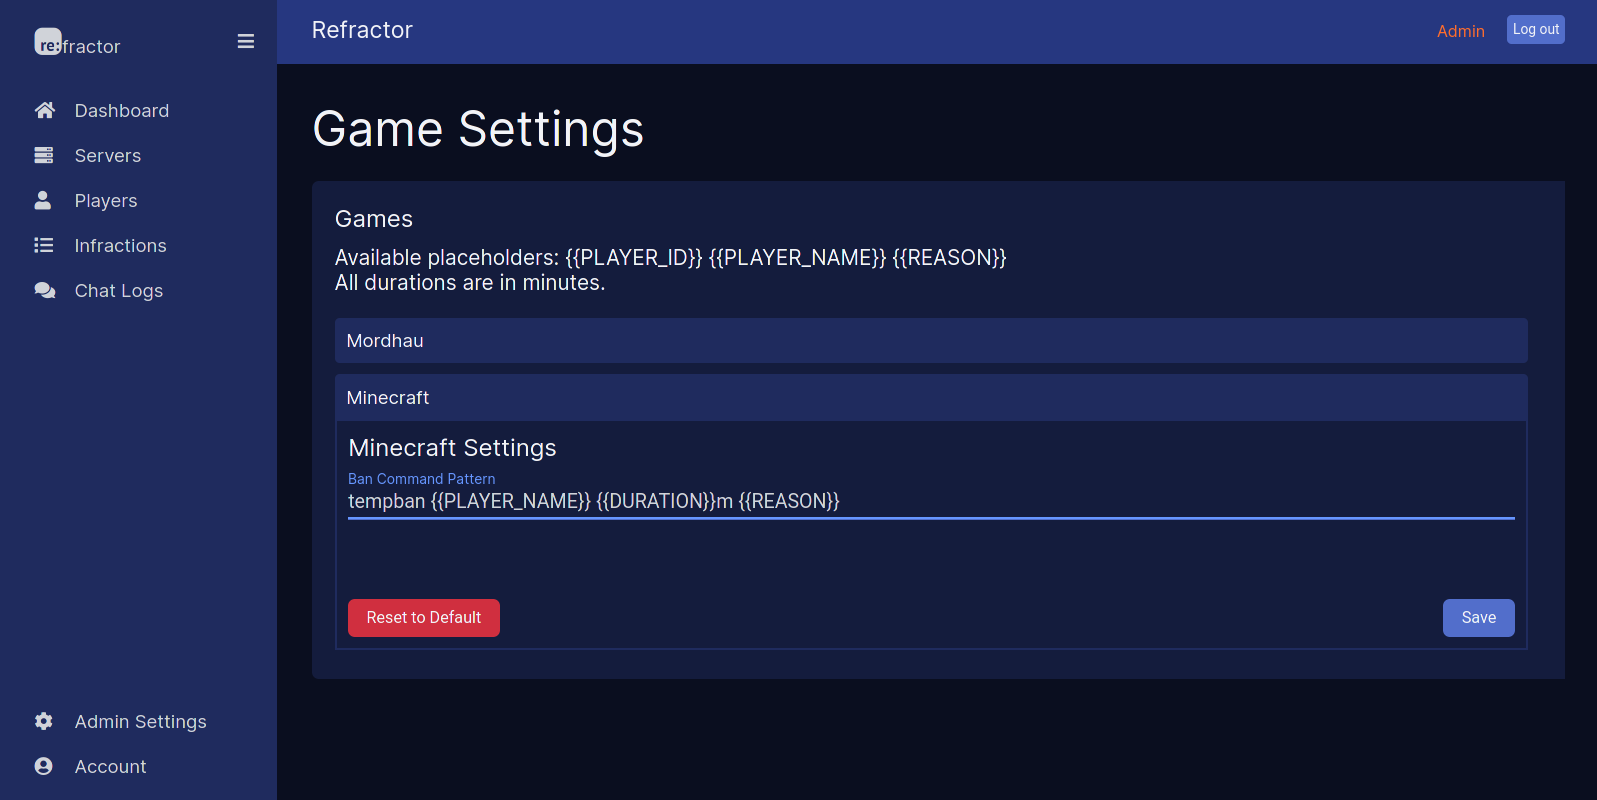
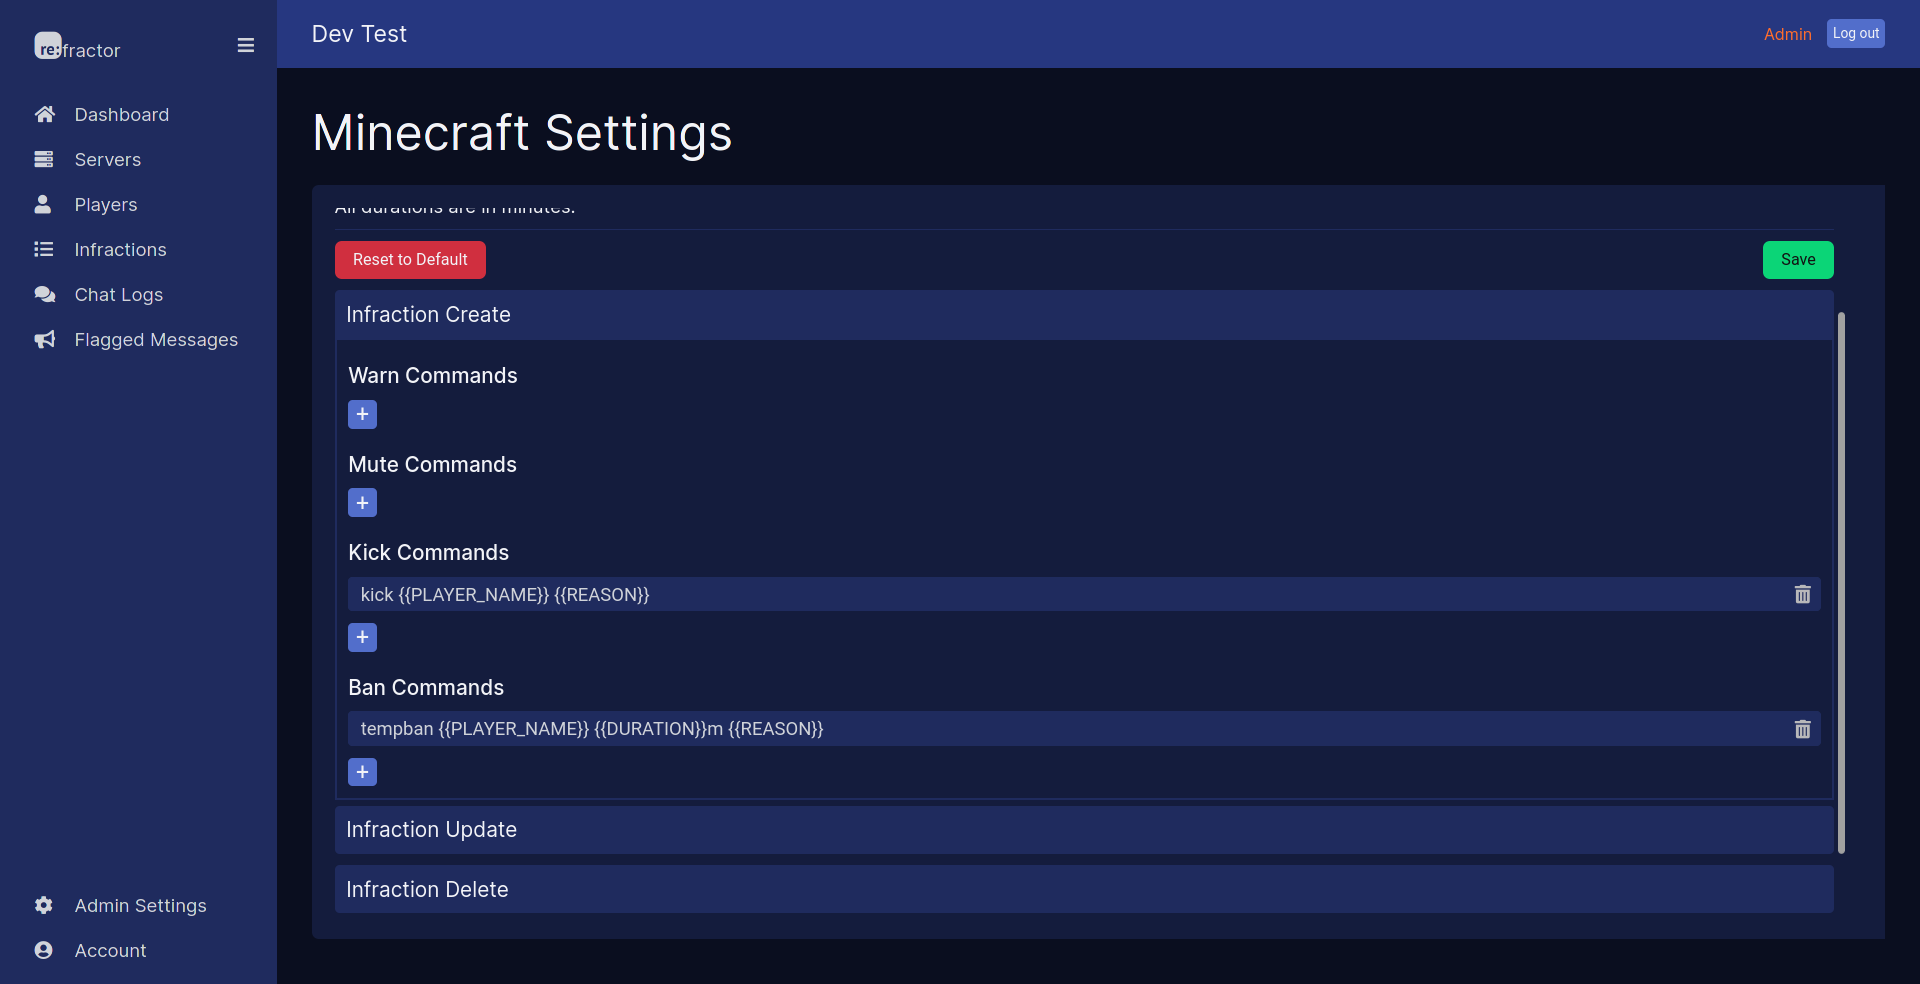
Adjusted minecraft setup page

diff --git a/installation/minecraft.md b/installation/minecraft.md
@@ -10,17 +10,15 @@ As Refractor has ban synchronization, it must be able to execute ban commands on
 
 Because of this, you must have a plugin which adds support for temporary bans. For example, [EssentialsX](https://www.spigotmc.org/resources/essentialsx.9089).
 
-Once you have a tempban command ready for use, you must configure Refractor to use it. You can do this by navigating to `Admin Settings > Games > Minecraft` on the Refractor dashboard. You should see a text field labeled Ban Command pattern.
+Once you have a tempban command ready for use, you must configure Refractor to use it. You can do this by navigating to `Admin Settings > Games > Minecraft` on the Refractor dashboard. From here, you can configure the ban commands to be run on any of the infraction events (create, update, delete and repeal).
 
-You must now configure this to match the correct usage of your ban plugin's ban command. For example, if you are using EssentialsX your ban command pattern should be as follows:
+For example, if you're using EssentialsX you would want to set the ban creation command to the following:
 
 ```
 tempban {{PLAYER_NAME}} {{DURATION}}m {{REASON}}
 ```
 
-Note the `m` after `{{DURATION}}`. This is because Refractor records durations in minutes. The `m` denotes minutes.
-
-Once you have this setup, you can test it out by logging a ban for yourself on Refractor and then attempting to join the server. After a few seconds, it should ban you for the correct period of time.
+Note the `m` after `{{DURATION}}`. This is because Refractor records durations in minutes. The `m` denotes minutes in the EssentialsX ban command.
 
 ![Minecraft settings page](/images/minecraft_settings.png)
 
